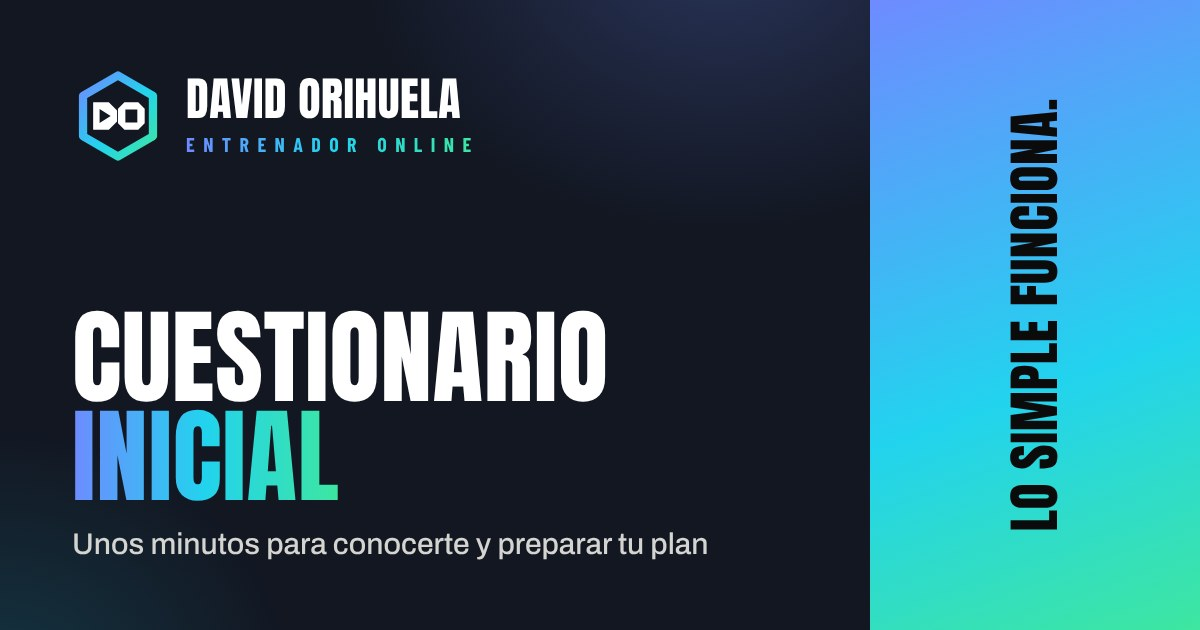
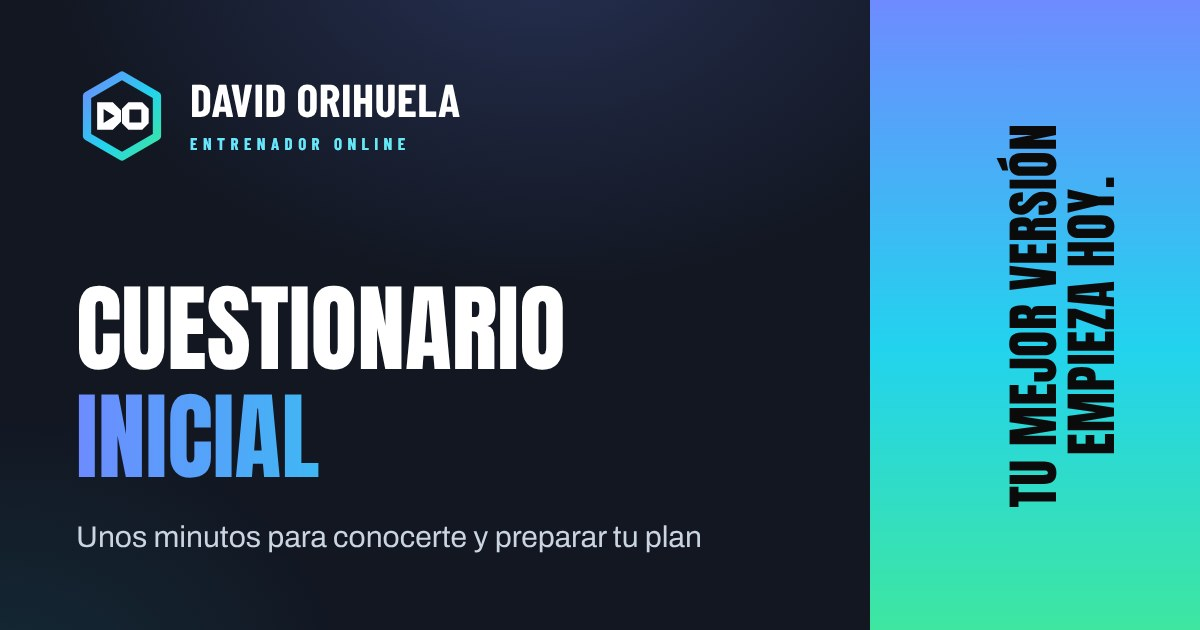
Nueva frase de marca: «Tu mejor versión empieza hoy.» (páginas del cliente, PDF de la dieta y tarjetas de WhatsApp)
Claude-Session: https://claude.ai/code/session_01B44VbnWuYpjyJ8VHvCZvgG

diff --git a/dieta.html b/dieta.html
@@ -11,8 +11,8 @@
   <meta property="og:site_name" content="David Orihuela Entrenador Online">
   <meta property="og:title" content="Tu plan de alimentación · David Orihuela Entrenador Online">
   <meta property="og:description" content="Tu plan de alimentación personalizado: ábrelo y descárgalo en PDF.">
-  <meta property="og:image" content="https://aleuhiro7.github.io/Aplicacionweb/img/og-dieta.jpg">
-  <meta property="og:image:secure_url" content="https://aleuhiro7.github.io/Aplicacionweb/img/og-dieta.jpg">
+  <meta property="og:image" content="https://aleuhiro7.github.io/Aplicacionweb/img/og-dieta.jpg?v=2">
+  <meta property="og:image:secure_url" content="https://aleuhiro7.github.io/Aplicacionweb/img/og-dieta.jpg?v=2">
   <meta property="og:image:type" content="image/jpeg">
   <meta property="og:image:width" content="1200">
   <meta property="og:image:height" content="630">
@@ -21,8 +21,8 @@
   <meta name="twitter:card" content="summary_large_image">
   <link rel="icon" type="image/png" sizes="32x32" href="img/favicon-32.png?v=8">
   <link rel="apple-touch-icon" sizes="180x180" href="img/apple-touch-icon.png?v=8">
-  <link rel="stylesheet" href="css/fonts.css?v=2026.11.18-196">
-  <link rel="stylesheet" href="css/styles.css?v=2026.11.18-196">
+  <link rel="stylesheet" href="css/fonts.css?v=2026.11.18-197">
+  <link rel="stylesheet" href="css/styles.css?v=2026.11.18-197">
 </head>
 <body class="q-page pv-page" data-kind="dieta">
   <main class="q-wrap pv-wrap">
@@ -30,7 +30,7 @@
       <span class="brand-logo"><svg class="hexlogo" viewBox="0 0 100 100" aria-hidden="true"><defs><linearGradient id="dograd" x1="0" y1="0" x2="1" y2="1"><stop offset="0" stop-color="#6e8bff"/><stop offset=".55" stop-color="#22d3ee"/><stop offset="1" stop-color="#3ee6a0"/></linearGradient></defs><path class="hx" d="M50 6 88 28v44L50 94 12 72V28Z"/><path class="hx-do" fill-rule="evenodd" d="M23 35H40L49 44V56L40 65H23Z M30 42.5L42 50L30 57.5Z M57 35H72L79 42V58L72 65H57L50 58V42Z M58 43H71V57H58Z"/></svg></span>
       <span class="brand-name"><span>David Orihuela</span><small>Entrenador Online</small></span>
     </header>
-    <p class="q-tagline">Lo simple funciona.</p>
+    <p class="q-tagline">Tu mejor versión empieza hoy.</p>
     <div id="pv-head" class="card pv-head">
       <p class="muted">Cargando…</p>
     </div>
@@ -39,7 +39,7 @@
   <div id="pv-bar" class="pv-bar" hidden>
     <button id="pv-download" type="button" class="btn primary">⬇ Descargar PDF</button>
   </div>
-  <script src="js/pdfmaker.js?v=2026.11.18-196"></script>
-  <script type="module" src="js/plan.js?v=2026.11.18-196"></script>
+  <script src="js/pdfmaker.js?v=2026.11.18-197"></script>
+  <script type="module" src="js/plan.js?v=2026.11.18-197"></script>
 </body>
 </html>

diff --git a/rutina.html b/rutina.html
@@ -11,8 +11,8 @@
   <meta property="og:site_name" content="David Orihuela Entrenador Online">
   <meta property="og:title" content="Tu rutina de entrenamiento · David Orihuela Entrenador Online">
   <meta property="og:description" content="Tu rutina personalizada: ábrela y descárgala en PDF.">
-  <meta property="og:image" content="https://aleuhiro7.github.io/Aplicacionweb/img/og-rutina.jpg">
-  <meta property="og:image:secure_url" content="https://aleuhiro7.github.io/Aplicacionweb/img/og-rutina.jpg">
+  <meta property="og:image" content="https://aleuhiro7.github.io/Aplicacionweb/img/og-rutina.jpg?v=2">
+  <meta property="og:image:secure_url" content="https://aleuhiro7.github.io/Aplicacionweb/img/og-rutina.jpg?v=2">
   <meta property="og:image:type" content="image/jpeg">
   <meta property="og:image:width" content="1200">
   <meta property="og:image:height" content="630">
@@ -21,8 +21,8 @@
   <meta name="twitter:card" content="summary_large_image">
   <link rel="icon" type="image/png" sizes="32x32" href="img/favicon-32.png?v=8">
   <link rel="apple-touch-icon" sizes="180x180" href="img/apple-touch-icon.png?v=8">
-  <link rel="stylesheet" href="css/fonts.css?v=2026.11.18-196">
-  <link rel="stylesheet" href="css/styles.css?v=2026.11.18-196">
+  <link rel="stylesheet" href="css/fonts.css?v=2026.11.18-197">
+  <link rel="stylesheet" href="css/styles.css?v=2026.11.18-197">
 </head>
 <body class="q-page pv-page" data-kind="rutina">
   <main class="q-wrap pv-wrap">
@@ -30,7 +30,7 @@
       <span class="brand-logo"><svg class="hexlogo" viewBox="0 0 100 100" aria-hidden="true"><defs><linearGradient id="dograd" x1="0" y1="0" x2="1" y2="1"><stop offset="0" stop-color="#6e8bff"/><stop offset=".55" stop-color="#22d3ee"/><stop offset="1" stop-color="#3ee6a0"/></linearGradient></defs><path class="hx" d="M50 6 88 28v44L50 94 12 72V28Z"/><path class="hx-do" fill-rule="evenodd" d="M23 35H40L49 44V56L40 65H23Z M30 42.5L42 50L30 57.5Z M57 35H72L79 42V58L72 65H57L50 58V42Z M58 43H71V57H58Z"/></svg></span>
       <span class="brand-name"><span>David Orihuela</span><small>Entrenador Online</small></span>
     </header>
-    <p class="q-tagline">Lo simple funciona.</p>
+    <p class="q-tagline">Tu mejor versión empieza hoy.</p>
     <div id="pv-head" class="card pv-head">
       <p class="muted">Cargando…</p>
     </div>
@@ -39,7 +39,7 @@
   <div id="pv-bar" class="pv-bar" hidden>
     <button id="pv-download" type="button" class="btn primary">⬇ Descargar PDF</button>
   </div>
-  <script src="js/pdfmaker.js?v=2026.11.18-196"></script>
-  <script type="module" src="js/plan.js?v=2026.11.18-196"></script>
+  <script src="js/pdfmaker.js?v=2026.11.18-197"></script>
+  <script type="module" src="js/plan.js?v=2026.11.18-197"></script>
 </body>
 </html>

diff --git a/cuestionario.html b/cuestionario.html
@@ -11,8 +11,8 @@
   <meta property="og:site_name" content="David Orihuela Entrenador Online">
   <meta property="og:title" content="Cuestionario inicial · David Orihuela Entrenador Online">
   <meta property="og:description" content="Unos minutos para conocerte y preparar tu plan de entrenamiento y alimentación.">
-  <meta property="og:image" content="https://aleuhiro7.github.io/Aplicacionweb/img/og-cuestionario.jpg">
-  <meta property="og:image:secure_url" content="https://aleuhiro7.github.io/Aplicacionweb/img/og-cuestionario.jpg">
+  <meta property="og:image" content="https://aleuhiro7.github.io/Aplicacionweb/img/og-cuestionario.jpg?v=2">
+  <meta property="og:image:secure_url" content="https://aleuhiro7.github.io/Aplicacionweb/img/og-cuestionario.jpg?v=2">
   <meta property="og:image:type" content="image/jpeg">
   <meta property="og:image:width" content="1200">
   <meta property="og:image:height" content="630">
@@ -21,8 +21,8 @@
   <meta name="twitter:card" content="summary_large_image">
   <link rel="icon" type="image/png" sizes="32x32" href="img/favicon-32.png?v=8">
   <link rel="apple-touch-icon" sizes="180x180" href="img/apple-touch-icon.png?v=8">
-  <link rel="stylesheet" href="css/fonts.css?v=2026.11.18-196">
-  <link rel="stylesheet" href="css/styles.css?v=2026.11.18-196">
+  <link rel="stylesheet" href="css/fonts.css?v=2026.11.18-197">
+  <link rel="stylesheet" href="css/styles.css?v=2026.11.18-197">
 </head>
 <body class="q-page">
   <main class="q-wrap">
@@ -30,11 +30,11 @@
       <span class="brand-logo"><svg class="hexlogo" viewBox="0 0 100 100" aria-hidden="true"><defs><linearGradient id="dograd" x1="0" y1="0" x2="1" y2="1"><stop offset="0" stop-color="#6e8bff"/><stop offset=".55" stop-color="#22d3ee"/><stop offset="1" stop-color="#3ee6a0"/></linearGradient></defs><path class="hx" d="M50 6 88 28v44L50 94 12 72V28Z"/><path class="hx-do" fill-rule="evenodd" d="M23 35H40L49 44V56L40 65H23Z M30 42.5L42 50L30 57.5Z M57 35H72L79 42V58L72 65H57L50 58V42Z M58 43H71V57H58Z"/></svg></span>
       <span class="brand-name"><span>David Orihuela</span><small>Entrenador Online</small></span>
     </header>
-    <p class="q-tagline">Lo simple funciona.</p>
+    <p class="q-tagline">Tu mejor versión empieza hoy.</p>
     <div id="q-root" class="card">
       <p class="muted">Cargando el cuestionario…</p>
     </div>
   </main>
-  <script type="module" src="js/cuestionario.js?v=2026.11.18-196"></script>
+  <script type="module" src="js/cuestionario.js?v=2026.11.18-197"></script>
 </body>
 </html>

diff --git a/index.html b/index.html
@@ -13,8 +13,8 @@
   <link rel="apple-touch-icon" sizes="180x180" href="img/apple-touch-icon.png?v=9">
   <meta name="apple-mobile-web-app-title" content="D. Orihuela">
   <meta name="application-name" content="D. Orihuela">
-  <link rel="stylesheet" href="css/fonts.css?v=2026.11.18-196">
-  <link rel="stylesheet" href="css/styles.css?v=2026.11.18-196">
+  <link rel="stylesheet" href="css/fonts.css?v=2026.11.18-197">
+  <link rel="stylesheet" href="css/styles.css?v=2026.11.18-197">
 </head>
 <body>
   <div class="layout">
@@ -60,15 +60,15 @@
 
   <div id="toast" role="status" aria-live="polite"></div>
 
-  <script src="js/utils.js?v=2026.11.18-196"></script>
-  <script src="js/library-data.js?v=2026.11.18-196"></script>
-  <script src="js/foods-data.js?v=2026.11.18-196"></script>
-  <script src="js/store.js?v=2026.11.18-196"></script>
-  <script src="js/ui.js?v=2026.11.18-196"></script>
-  <script src="js/photos.js?v=2026.11.18-196"></script>
-  <script src="js/pdfmaker.js?v=2026.11.18-196"></script>
-  <script src="js/views.js?v=2026.11.18-196"></script>
-  <script src="js/app.js?v=2026.11.18-196"></script>
-  <script type="module" src="js/sync.js?v=2026.11.18-196"></script>
+  <script src="js/utils.js?v=2026.11.18-197"></script>
+  <script src="js/library-data.js?v=2026.11.18-197"></script>
+  <script src="js/foods-data.js?v=2026.11.18-197"></script>
+  <script src="js/store.js?v=2026.11.18-197"></script>
+  <script src="js/ui.js?v=2026.11.18-197"></script>
+  <script src="js/photos.js?v=2026.11.18-197"></script>
+  <script src="js/pdfmaker.js?v=2026.11.18-197"></script>
+  <script src="js/views.js?v=2026.11.18-197"></script>
+  <script src="js/app.js?v=2026.11.18-197"></script>
+  <script type="module" src="js/sync.js?v=2026.11.18-197"></script>
 </body>
 </html>

diff --git a/js/views.js b/js/views.js
@@ -1619,7 +1619,7 @@
             <h1>${esc(c.name)}</h1>
             <span class="ds-rule"></span>
             <p>${esc(fmtDate(today()))}</p>
-            <p class="ds-tag">Lo simple funciona.</p>
+            <p class="ds-tag">Tu mejor versión empieza hoy.</p>
           </div>
           <ol class="ds-index">${extraPages.concat(meals.map((m) => m.name), afterPages).map((name, i) => `<li><span>${i + 1}</span>${esc(name)}</li>`).join('')}</ol>
           ${anyOptions ? `<p class="ds-cover-note">${optNote}</p>` : '<p class="ds-cover-note"></p>'}
